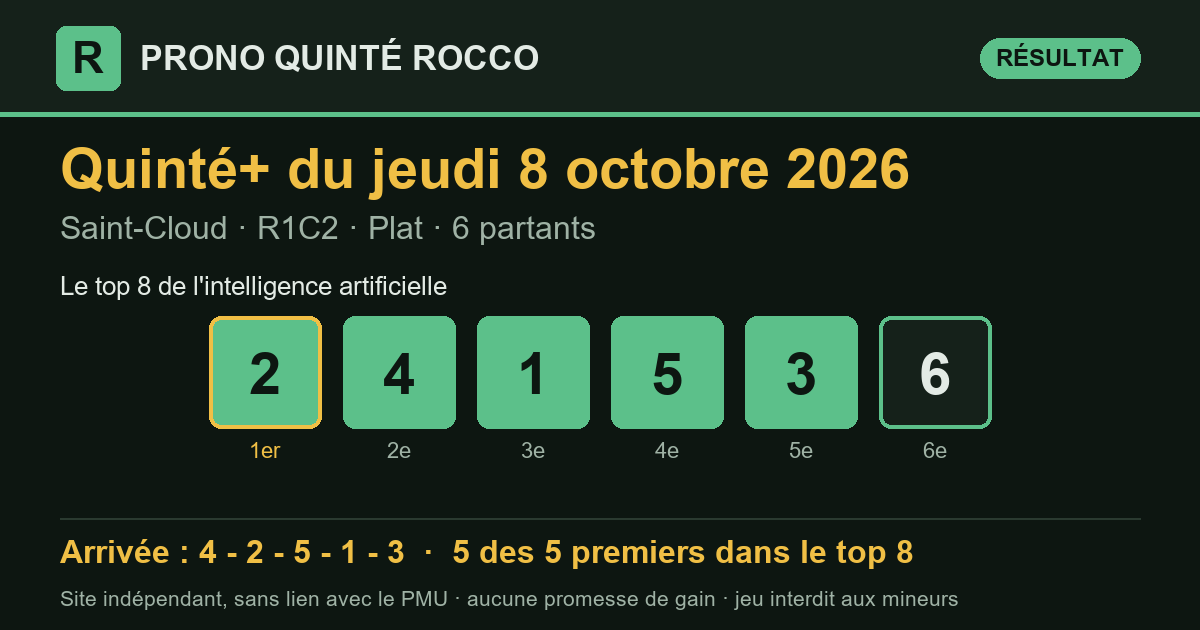
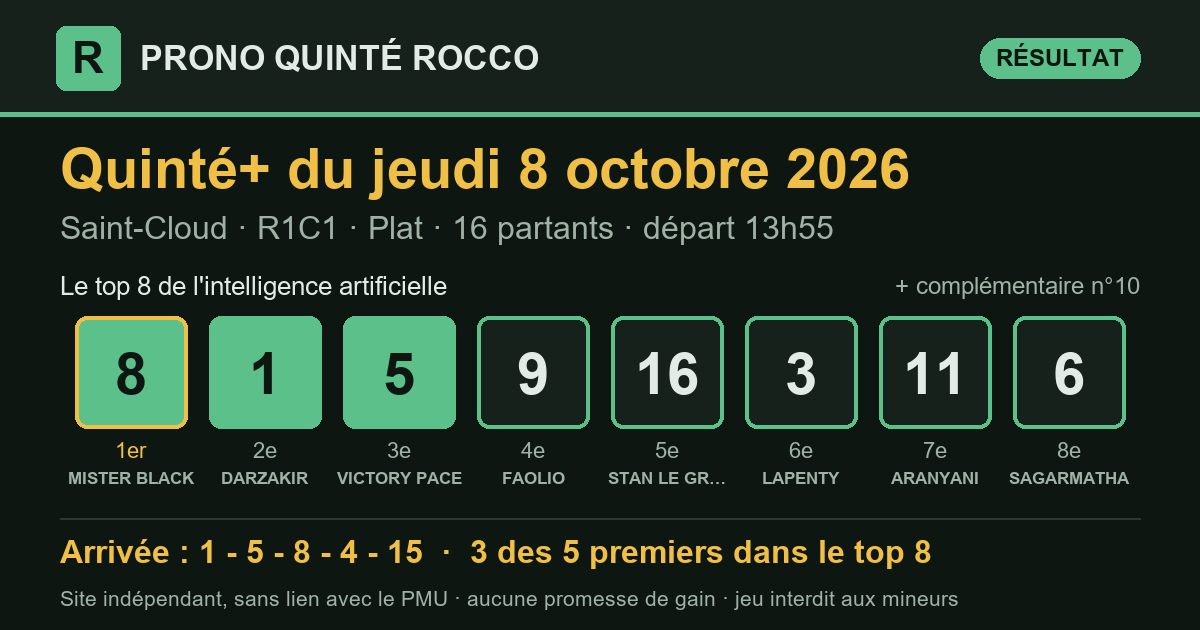
Prono Quinté+ 2026-10-08 Saint-Cloud R1C1 — publié le 08/10/2026 19:53 (heure de Paris)

diff --git a/index.html b/index.html
@@ -13,7 +13,7 @@
 <meta property="og:title" content="Pronostic Quinté+ du jeudi 8 octobre 2026 — Prono Quinté Rocco">
 <meta property="og:description" content="Le pronostic du Quinté+ par intelligence artificielle, publié avant le départ, avec tous les résultats et le rendement réel.">
 <meta property="og:url" content="https://roccogp971.github.io/prono-quinte-rocco/">
-<meta property="og:image" content="https://roccogp971.github.io/prono-quinte-rocco/partage/2026-10-08.png?v=7b7a216b">
+<meta property="og:image" content="https://roccogp971.github.io/prono-quinte-rocco/partage/2026-10-08.png?v=9263105d">
 <meta property="og:image:type" content="image/png">
 <meta property="og:image:width" content="1200">
 <meta property="og:image:height" content="630">
@@ -34,10 +34,10 @@
   Quinté+. Le classement est publié avant le départ, puis comparé à l'arrivée
   officielle. Tous les résultats restent en ligne, les bons comme les mauvais.</p>
   <article class="carte-course">
-  <div class="tete"><h2>Jeudi 8 octobre 2026</h2><span class="etat place">5 des 5 premiers dans le top 8</span></div>
-  <p class="meta">Saint-Cloud · <strong>R1C2</strong> · Plat · 6 partants · lisibilité <span class="note" aria-label="note 3 sur 5"><i class="on"></i><i class="on"></i><i class="on"></i><i class=""></i><i class=""></i></span> 3/5</p>
-  <ol class="partants" aria-label="Classement du prono"><li><span class="rang">1<sup>er</sup></span><span class="tapis plein">2</span></li><li><span class="rang">2<sup>e</sup></span><span class="tapis plein">4</span></li><li><span class="rang">3<sup>e</sup></span><span class="tapis plein">1</span></li><li><span class="rang">4<sup>e</sup></span><span class="tapis plein">5</span></li><li><span class="rang">5<sup>e</sup></span><span class="tapis plein">3</span></li><li><span class="rang">6<sup>e</sup></span><span class="tapis ">6</span></li></ol>
-  <div class="pied-carte"><span>Analysé le 08/10 à 13:24 · en ligne le 08/10 à 18:22 (heure de Paris)</span><span class="etat tard">mis en ligne après la course</span><span><a href="quinte/2026-10-08.html">Détail de la course</a></span></div>
+  <div class="tete"><h2>Jeudi 8 octobre 2026</h2><span class="etat place">3 des 5 premiers dans le top 8</span></div>
+  <p class="meta">Saint-Cloud · <strong>R1C1</strong> · Plat · 16 partants · lisibilité <span class="note" aria-label="note 2 sur 5"><i class="on"></i><i class="on"></i><i class=""></i><i class=""></i><i class=""></i></span> 2/5</p>
+  <ol class="partants" aria-label="Classement du prono"><li><span class="rang">1<sup>er</sup></span><span class="tapis plein">8</span><span class="nom">MISTER BLACK</span></li><li><span class="rang">2<sup>e</sup></span><span class="tapis plein">1</span><span class="nom">DARZAKIR</span></li><li><span class="rang">3<sup>e</sup></span><span class="tapis plein">5</span><span class="nom">VICTORY PACE</span></li><li><span class="rang">4<sup>e</sup></span><span class="tapis ">9</span><span class="nom">FAOLIO</span></li><li><span class="rang">5<sup>e</sup></span><span class="tapis ">16</span><span class="nom">STAN LE GRAND</span></li><li><span class="rang">6<sup>e</sup></span><span class="tapis ">3</span><span class="nom">LAPENTY</span></li><li><span class="rang">7<sup>e</sup></span><span class="tapis ">11</span><span class="nom">ARANYANI</span></li><li><span class="rang">8<sup>e</sup></span><span class="tapis ">6</span><span class="nom">SAGARMATHA</span></li><li><span class="rang">compl.</span><span class="tapis creux">10</span><span class="nom">MY HABITUDE</span></li></ol>
+  <div class="pied-carte"><span>Analysé le 08/10 à 10:42 · en ligne le 08/10 à 10:47 · départ à 13:55 (heure de Paris)</span><span><a href="quinte/2026-10-08.html">Détail de la course</a></span></div>
 </article>
   <div class="legende"><span><span class="tapis plein petit">4</span> numéro dans les 5 premiers</span>
   <span><span class="tapis creux petit">9</span> compl. = cheval complémentaire</span></div>
@@ -45,15 +45,15 @@
 <section class="une" aria-labelledby="t-veille">
   <p class="surtitre">Dernier résultat</p>
   <article class="carte-course">
-  <div class="tete"><h2 id="t-veille">Jeudi 8 octobre 2026</h2><span class="etat place">3 des 5 premiers dans le top 8</span></div>
-  <p class="meta">Saint-Cloud · <strong>R1C1</strong> · Plat · 16 partants · lisibilité <span class="note" aria-label="note 2 sur 5"><i class="on"></i><i class="on"></i><i class=""></i><i class=""></i><i class=""></i></span> 2/5</p>
-  <ol class="partants" aria-label="Classement du prono"><li><span class="rang">1<sup>er</sup></span><span class="tapis plein">8</span><span class="nom">MISTER BLACK</span></li><li><span class="rang">2<sup>e</sup></span><span class="tapis plein">1</span><span class="nom">DARZAKIR</span></li><li><span class="rang">3<sup>e</sup></span><span class="tapis plein">5</span><span class="nom">VICTORY PACE</span></li><li><span class="rang">4<sup>e</sup></span><span class="tapis ">9</span><span class="nom">FAOLIO</span></li><li><span class="rang">5<sup>e</sup></span><span class="tapis ">16</span><span class="nom">STAN LE GRAND</span></li><li><span class="rang">6<sup>e</sup></span><span class="tapis ">3</span><span class="nom">LAPENTY</span></li><li><span class="rang">7<sup>e</sup></span><span class="tapis ">11</span><span class="nom">ARANYANI</span></li><li><span class="rang">8<sup>e</sup></span><span class="tapis ">6</span><span class="nom">SAGARMATHA</span></li><li><span class="rang">compl.</span><span class="tapis creux">10</span><span class="nom">MY HABITUDE</span></li></ol>
-  <div class="pied-carte"><span>Analysé le 08/10 à 10:42 · en ligne le 08/10 à 10:47 · départ à 13:55 (heure de Paris)</span><span><a href="quinte/2026-10-08.html">Détail de la course</a></span></div>
+  <div class="tete"><h2 id="t-veille">Mercredi 7 octobre 2026</h2><span class="etat place">3 des 5 premiers dans le top 8</span></div>
+  <p class="meta">Enghien-Soisy · <strong>R1C1</strong> · Attelé · 18 partants · lisibilité <span class="note" aria-label="note 2 sur 5"><i class="on"></i><i class="on"></i><i class=""></i><i class=""></i><i class=""></i></span> 2/5</p>
+  <ol class="partants" aria-label="Classement du prono"><li><span class="rang">1<sup>er</sup></span><span class="tapis ">17</span><span class="nom">IMAGE D&#x27;ATALANTE</span></li><li><span class="rang">2<sup>e</sup></span><span class="tapis ">12</span><span class="nom">JUNON DE LOU</span></li><li><span class="rang">3<sup>e</sup></span><span class="tapis plein">16</span><span class="nom">JAIN MAB</span></li><li><span class="rang">4<sup>e</sup></span><span class="tapis ">18</span><span class="nom">JOIE DE LA COTE</span></li><li><span class="rang">5<sup>e</sup></span><span class="tapis plein">13</span><span class="nom">IDOLE ELDE</span></li><li><span class="rang">6<sup>e</sup></span><span class="tapis ">15</span><span class="nom">IXELLE BLEUE</span></li><li><span class="rang">7<sup>e</sup></span><span class="tapis ">10</span><span class="nom">JUSTICIA SMART</span></li><li><span class="rang">8<sup>e</sup></span><span class="tapis plein">14</span><span class="nom">INES DE LA ROUVRE</span></li><li><span class="rang">compl.</span><span class="tapis creux">11</span><span class="nom">JALOUZ D&#x27;OLIVERIE</span></li></ol>
+  <div class="pied-carte"><span>Analysé le 07/10 à 11:54 · en ligne le 07/10 à 11:58 · départ à 13:55 (heure de Paris)</span><span><a href="quinte/2026-10-07.html">Détail de la course</a></span></div>
 </article>
 </section>
 <section class="bilan" aria-labelledby="t-bilan">
   <h2 id="t-bilan">Le bilan depuis le 8 septembre 2026</h2>
-  <div class="tableau chiffres"><div class="case"><span class="gros ">75 %</span><span class="lib">des arrivants trouvés dans le top 8</span><span class="ref">un top 8 tiré au hasard : 54 %</span></div><div class="case"><span class="gros ">87 %</span><span class="lib">des gagnants présents dans le top 8</span><span class="ref"></span></div><div class="case"><span class="gros ">58 %</span><span class="lib">1er du prono placé</span><span class="ref">sur 31 Quintés</span></div><div class="case"><span class="gros ">1,03 €</span><span class="lib">rendus pour 1 € joué placé sur le 1er</span><span class="ref">rapports officiels PMU</span></div><div class="case"><span class="gros perte">0,46 €</span><span class="lib">rendus pour 1 € joué en Quinté+ combiné top 8</span><span class="ref">56 combinaisons, rapports PMU.fr, sur 30 Quintés</span></div></div>
+  <div class="tableau chiffres"><div class="case"><span class="gros ">75 %</span><span class="lib">des arrivants trouvés dans le top 8</span><span class="ref">un top 8 tiré au hasard : 52 %</span></div><div class="case"><span class="gros ">87 %</span><span class="lib">des gagnants présents dans le top 8</span><span class="ref"></span></div><div class="case"><span class="gros ">57 %</span><span class="lib">1er du prono placé</span><span class="ref">sur 30 Quintés</span></div><div class="case"><span class="gros ">1,03 €</span><span class="lib">rendus pour 1 € joué placé sur le 1er</span><span class="ref">rapports officiels PMU</span></div><div class="case"><span class="gros perte">0,46 €</span><span class="lib">rendus pour 1 € joué en Quinté+ combiné top 8</span><span class="ref">56 combinaisons, rapports PMU.fr, sur 30 Quintés</span></div></div>
   <p class="avertissement">Moins de 1 € rendu pour 1 € joué : suivre ce prono à la lettre fait <strong>perdre de l'argent</strong> sur cette période. Il sert à analyser une course, pas à promettre un gain.</p>
 </section>
 </main>

diff --git a/quinte/2026-10-08.html b/quinte/2026-10-08.html
@@ -13,7 +13,7 @@
 <meta property="og:title" content="Pronostic Quinté+ du jeudi 8 octobre 2026 à Saint-Cloud — Prono Quinté Rocco">
 <meta property="og:description" content="Prono Quinté+ du jeudi 8 octobre 2026 (Saint-Cloud) : top 8, arrivée officielle et rapports PMU.fr.">
 <meta property="og:url" content="https://roccogp971.github.io/prono-quinte-rocco/quinte/2026-10-08.html">
-<meta property="og:image" content="https://roccogp971.github.io/prono-quinte-rocco/partage/2026-10-08.png?v=7b7a216b">
+<meta property="og:image" content="https://roccogp971.github.io/prono-quinte-rocco/partage/2026-10-08.png?v=9263105d">
 <meta property="og:image:type" content="image/png">
 <meta property="og:image:width" content="1200">
 <meta property="og:image:height" content="630">
@@ -30,20 +30,19 @@
 <section class="une">
   <p class="surtitre"><a href="../resultats.html">Tous les résultats</a></p>
   <h1>Pronostic Quinté+ du jeudi 8 octobre 2026</h1>
-  <p class="chapo">Saint-Cloud · R1C2 · Plat · 6 partants</p>
-  <p class="meta">Prono enregistré par le logiciel avant la course, mais mis en ligne après la course : il ne prouve rien à lui seul.</p>
+  <p class="chapo">Saint-Cloud · R1C1 · Plat · 16 partants</p>
   <article class="carte-course">
-  <div class="tete"><h2>Le prono : top 8 et complémentaire</h2><span class="etat place">5 des 5 premiers dans le top 8</span></div>
-  <p class="meta">Saint-Cloud · <strong>R1C2</strong> · Plat · 6 partants · lisibilité <span class="note" aria-label="note 3 sur 5"><i class="on"></i><i class="on"></i><i class="on"></i><i class=""></i><i class=""></i></span> 3/5</p>
-  <ol class="partants" aria-label="Classement du prono"><li><span class="rang">1<sup>er</sup></span><span class="tapis plein">2</span></li><li><span class="rang">2<sup>e</sup></span><span class="tapis plein">4</span></li><li><span class="rang">3<sup>e</sup></span><span class="tapis plein">1</span></li><li><span class="rang">4<sup>e</sup></span><span class="tapis plein">5</span></li><li><span class="rang">5<sup>e</sup></span><span class="tapis plein">3</span></li><li><span class="rang">6<sup>e</sup></span><span class="tapis ">6</span></li></ol>
-  <div class="pied-carte"><span>Analysé le 08/10 à 13:24 · en ligne le 08/10 à 18:22 (heure de Paris)</span><span class="etat tard">mis en ligne après la course</span><span></span></div>
+  <div class="tete"><h2>Le prono : top 8 et complémentaire</h2><span class="etat place">3 des 5 premiers dans le top 8</span></div>
+  <p class="meta">Saint-Cloud · <strong>R1C1</strong> · Plat · 16 partants · lisibilité <span class="note" aria-label="note 2 sur 5"><i class="on"></i><i class="on"></i><i class=""></i><i class=""></i><i class=""></i></span> 2/5</p>
+  <ol class="partants" aria-label="Classement du prono"><li><span class="rang">1<sup>er</sup></span><span class="tapis plein">8</span><span class="nom">MISTER BLACK</span></li><li><span class="rang">2<sup>e</sup></span><span class="tapis plein">1</span><span class="nom">DARZAKIR</span></li><li><span class="rang">3<sup>e</sup></span><span class="tapis plein">5</span><span class="nom">VICTORY PACE</span></li><li><span class="rang">4<sup>e</sup></span><span class="tapis ">9</span><span class="nom">FAOLIO</span></li><li><span class="rang">5<sup>e</sup></span><span class="tapis ">16</span><span class="nom">STAN LE GRAND</span></li><li><span class="rang">6<sup>e</sup></span><span class="tapis ">3</span><span class="nom">LAPENTY</span></li><li><span class="rang">7<sup>e</sup></span><span class="tapis ">11</span><span class="nom">ARANYANI</span></li><li><span class="rang">8<sup>e</sup></span><span class="tapis ">6</span><span class="nom">SAGARMATHA</span></li><li><span class="rang">compl.</span><span class="tapis creux">10</span><span class="nom">MY HABITUDE</span></li></ol>
+  <div class="pied-carte"><span>Analysé le 08/10 à 10:42 · en ligne le 08/10 à 10:47 · départ à 13:55 (heure de Paris)</span><span></span></div>
 </article>
 <section class="carte-course" aria-labelledby="t-arr">
   <div class="tete"><h2 id="t-arr">Arrivée officielle</h2></div>
-  <div class="rangee"><span class="tapis plein" title="1er">4</span><span class="tapis plein" title="2e">2</span><span class="tapis plein" title="3e">5</span><span class="tapis plein" title="4e">1</span><span class="tapis plein" title="5e">3</span></div>
+  <div class="rangee"><span class="tapis plein" title="1er">1</span><span class="tapis plein" title="2e">5</span><span class="tapis plein" title="3e">8</span><span class="tapis creux" title="4e">4</span><span class="tapis creux" title="5e">15</span></div>
   <div class="deux">
-    <div><h3>Ce qu'aurait rendu le prono</h3><dl class="kv"><dt>1 € placé sur le 1er (n°2)</dt><dd>1,20 €</dd><dt>1 € gagnant sur le 1er</dt><dd>0,00 €</dd></dl></div>
-    <div><h3>Rapports officiels</h3><dl class="kv"><dt>rapports indisponibles</dt><dd></dd></dl></div>
+    <div><h3>Ce qu'aurait rendu le prono</h3><dl class="kv"><dt>1 € placé sur le 1er (n°8)</dt><dd>1,90 €</dd><dt>1 € gagnant sur le 1er</dt><dd>0,00 €</dd><dt>Quinté+ combiné top 8 (mise 112 €)</dt><dd>27,60 €</dd><dt>dont</dt><dd>Bonus 4sur5 × 4, Bonus 3 × 6</dd></dl></div>
+    <div><h3>Rapports officiels</h3><dl class="kv"><dt>e-Quinté+ Ordre (2 €)</dt><dd>6 145,80 €</dd><dt>e-Quinté+ Désordre (2 €)</dt><dd>72,20 €</dd><dt>e-Bonus 4sur5 (2 €)</dt><dd>3,00 €</dd><dt>e-Bonus 3 (2 €)</dt><dd>2,60 €</dd><dt>Tiercé Ordre (1 €)</dt><dd>55,30 €</dd><dt>Tiercé Désordre (1 €)</dt><dd>7,70 €</dd></dl></div>
   </div>
 </section>
 </section>

diff --git a/resultats.html b/resultats.html
@@ -39,11 +39,6 @@
   <td data-label="Top 8 du prono"><div class="rangee"><span class="tapis plein petit">8</span><span class="tapis plein petit">1</span><span class="tapis plein petit">5</span><span class="tapis petit">9</span><span class="tapis petit">16</span><span class="tapis petit">3</span><span class="tapis petit">11</span><span class="tapis petit">6</span></div></td><td data-label="Arrivée"><div class="rangee"><span class="tapis plein petit" title="1er">1</span><span class="tapis plein petit" title="2e">5</span><span class="tapis plein petit" title="3e">8</span><span class="tapis creux petit" title="4e">4</span><span class="tapis creux petit" title="5e">15</span></div></td>
   <td class="num" data-label="Trouvés">3/5</td><td data-label="1er du prono"><span class="etat place">placé</span></td><td class="mont perte" data-label="Quinté+ top 8 (mise 112 €)">27,60 €</td>
 </tr><tr>
-  <td class="c-date"><a href="quinte/2026-10-08.html">08/10</a> <span class="meta tard">après coup</span></td>
-  <td class="c-course">Saint-Cloud<br><span class="meta">R1C2 · Plat</span></td>
-  <td data-label="Top 8 du prono"><div class="rangee"><span class="tapis plein petit">2</span><span class="tapis plein petit">4</span><span class="tapis plein petit">1</span><span class="tapis plein petit">5</span><span class="tapis plein petit">3</span><span class="tapis petit">6</span></div></td><td data-label="Arrivée"><div class="rangee"><span class="tapis plein petit" title="1er">4</span><span class="tapis plein petit" title="2e">2</span><span class="tapis plein petit" title="3e">5</span><span class="tapis plein petit" title="4e">1</span><span class="tapis plein petit" title="5e">3</span></div></td>
-  <td class="num" data-label="Trouvés">5/5</td><td data-label="1er du prono"><span class="etat place">placé</span></td><td class="mont" data-label="Quinté+ top 8 (mise 112 €)">—</td>
-</tr><tr>
   <td class="c-date"><a href="quinte/2026-10-07.html">07/10</a></td>
   <td class="c-course">Enghien-Soisy<br><span class="meta">R1C1 · Attelé</span></td>
   <td data-label="Top 8 du prono"><div class="rangee"><span class="tapis petit">17</span><span class="tapis petit">12</span><span class="tapis plein petit">16</span><span class="tapis petit">18</span><span class="tapis plein petit">13</span><span class="tapis petit">15</span><span class="tapis petit">10</span><span class="tapis plein petit">14</span></div></td><td data-label="Arrivée"><div class="rangee"><span class="tapis plein petit" title="1er">16</span><span class="tapis creux petit" title="2e">5</span><span class="tapis plein petit" title="3e">14</span><span class="tapis plein petit" title="4e">13</span><span class="tapis creux petit" title="5e">2</span></div></td>
@@ -193,7 +188,7 @@
 </section>
 <section class="bilan" aria-labelledby="t-bilan">
   <h2 id="t-bilan">Le bilan depuis le 8 septembre 2026</h2>
-  <div class="tableau chiffres"><div class="case"><span class="gros ">75 %</span><span class="lib">des arrivants trouvés dans le top 8</span><span class="ref">un top 8 tiré au hasard : 54 %</span></div><div class="case"><span class="gros ">87 %</span><span class="lib">des gagnants présents dans le top 8</span><span class="ref"></span></div><div class="case"><span class="gros ">58 %</span><span class="lib">1er du prono placé</span><span class="ref">sur 31 Quintés</span></div><div class="case"><span class="gros ">1,03 €</span><span class="lib">rendus pour 1 € joué placé sur le 1er</span><span class="ref">rapports officiels PMU</span></div><div class="case"><span class="gros perte">0,46 €</span><span class="lib">rendus pour 1 € joué en Quinté+ combiné top 8</span><span class="ref">56 combinaisons, rapports PMU.fr, sur 30 Quintés</span></div></div>
+  <div class="tableau chiffres"><div class="case"><span class="gros ">75 %</span><span class="lib">des arrivants trouvés dans le top 8</span><span class="ref">un top 8 tiré au hasard : 52 %</span></div><div class="case"><span class="gros ">87 %</span><span class="lib">des gagnants présents dans le top 8</span><span class="ref"></span></div><div class="case"><span class="gros ">57 %</span><span class="lib">1er du prono placé</span><span class="ref">sur 30 Quintés</span></div><div class="case"><span class="gros ">1,03 €</span><span class="lib">rendus pour 1 € joué placé sur le 1er</span><span class="ref">rapports officiels PMU</span></div><div class="case"><span class="gros perte">0,46 €</span><span class="lib">rendus pour 1 € joué en Quinté+ combiné top 8</span><span class="ref">56 combinaisons, rapports PMU.fr, sur 30 Quintés</span></div></div>
   <p class="avertissement">Moins de 1 € rendu pour 1 € joué : suivre ce prono à la lettre fait <strong>perdre de l'argent</strong> sur cette période. Il sert à analyser une course, pas à promettre un gain.</p>
 </section>
 </main>

diff --git a/partants.html b/partants.html
@@ -114,7 +114,7 @@
 </tr></tbody>
   </table></div>
   <p class="meta">Le prono IA de cette course sera publié le matin de la course, avant le départ. Sous chaque cheval : driver · entraîneur. Partants et cotes : programme
-  officiel du PMU, lu le 08/10 à 18:22 (heure de Paris). NP = non-partant.</p>
+  officiel du PMU, lu le 08/10 à 19:53 (heure de Paris). NP = non-partant.</p>
 </section>
 </main>
 <footer class="pied">
